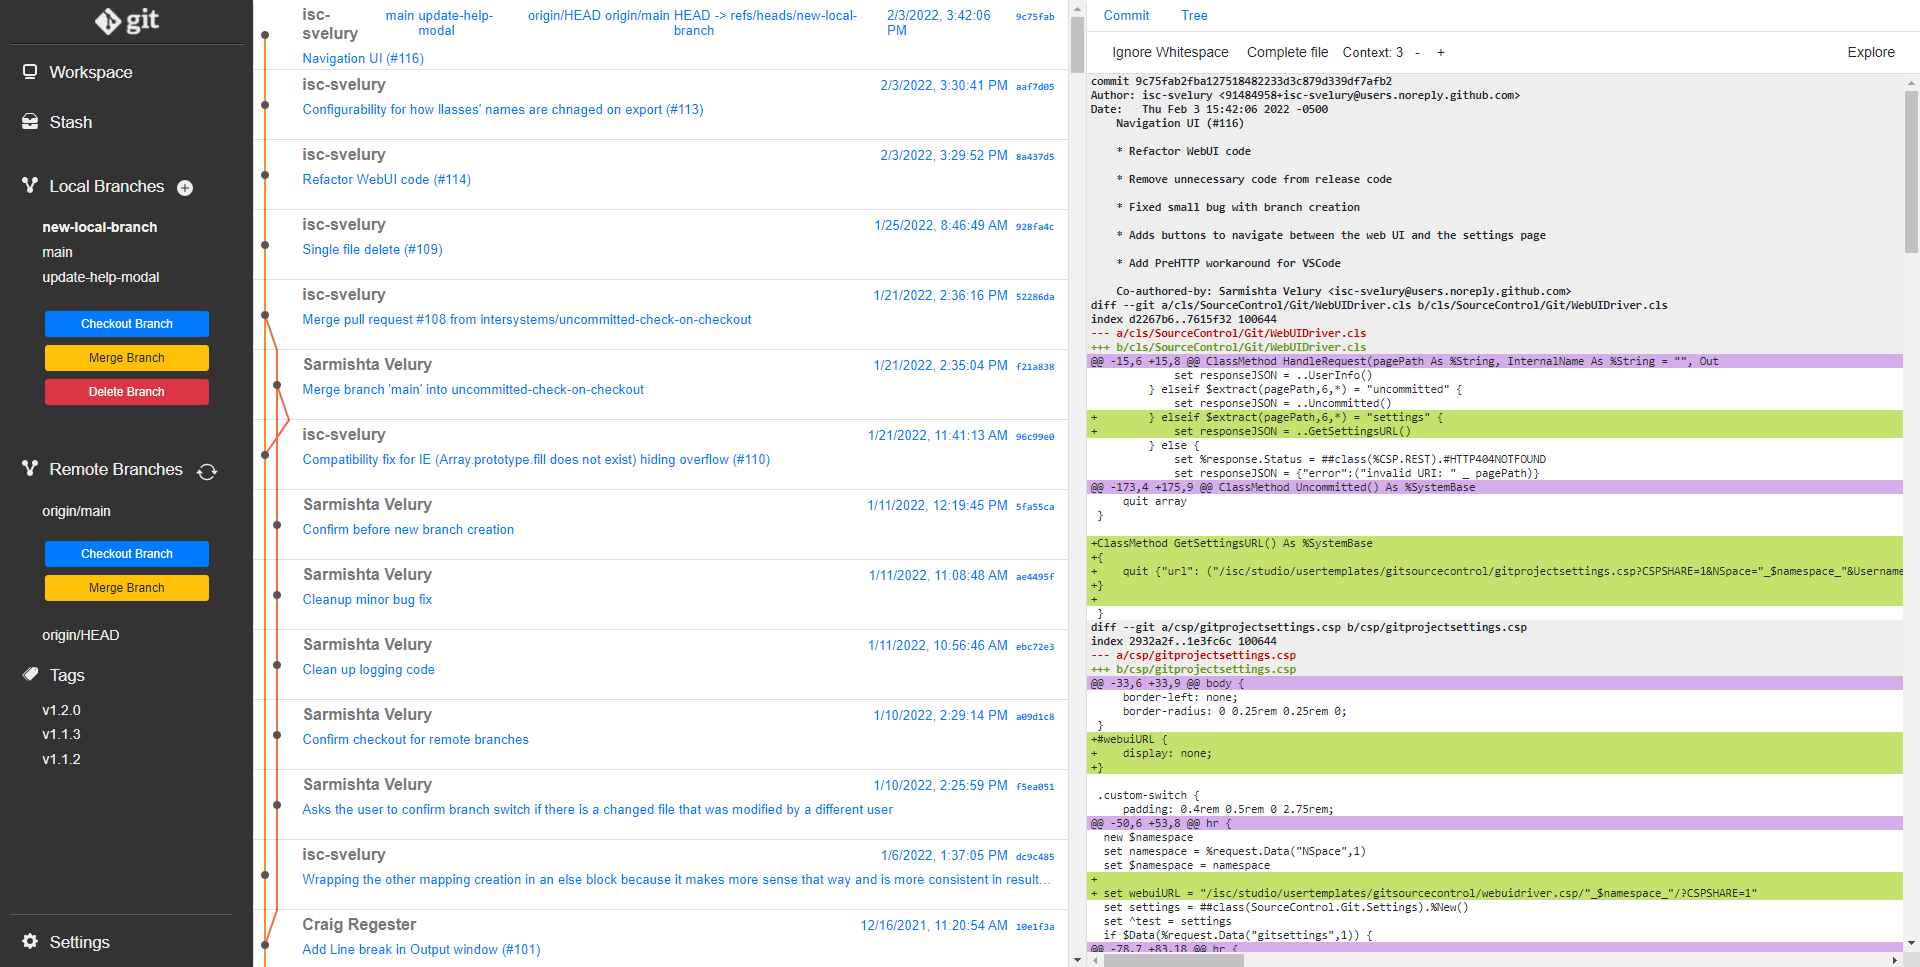
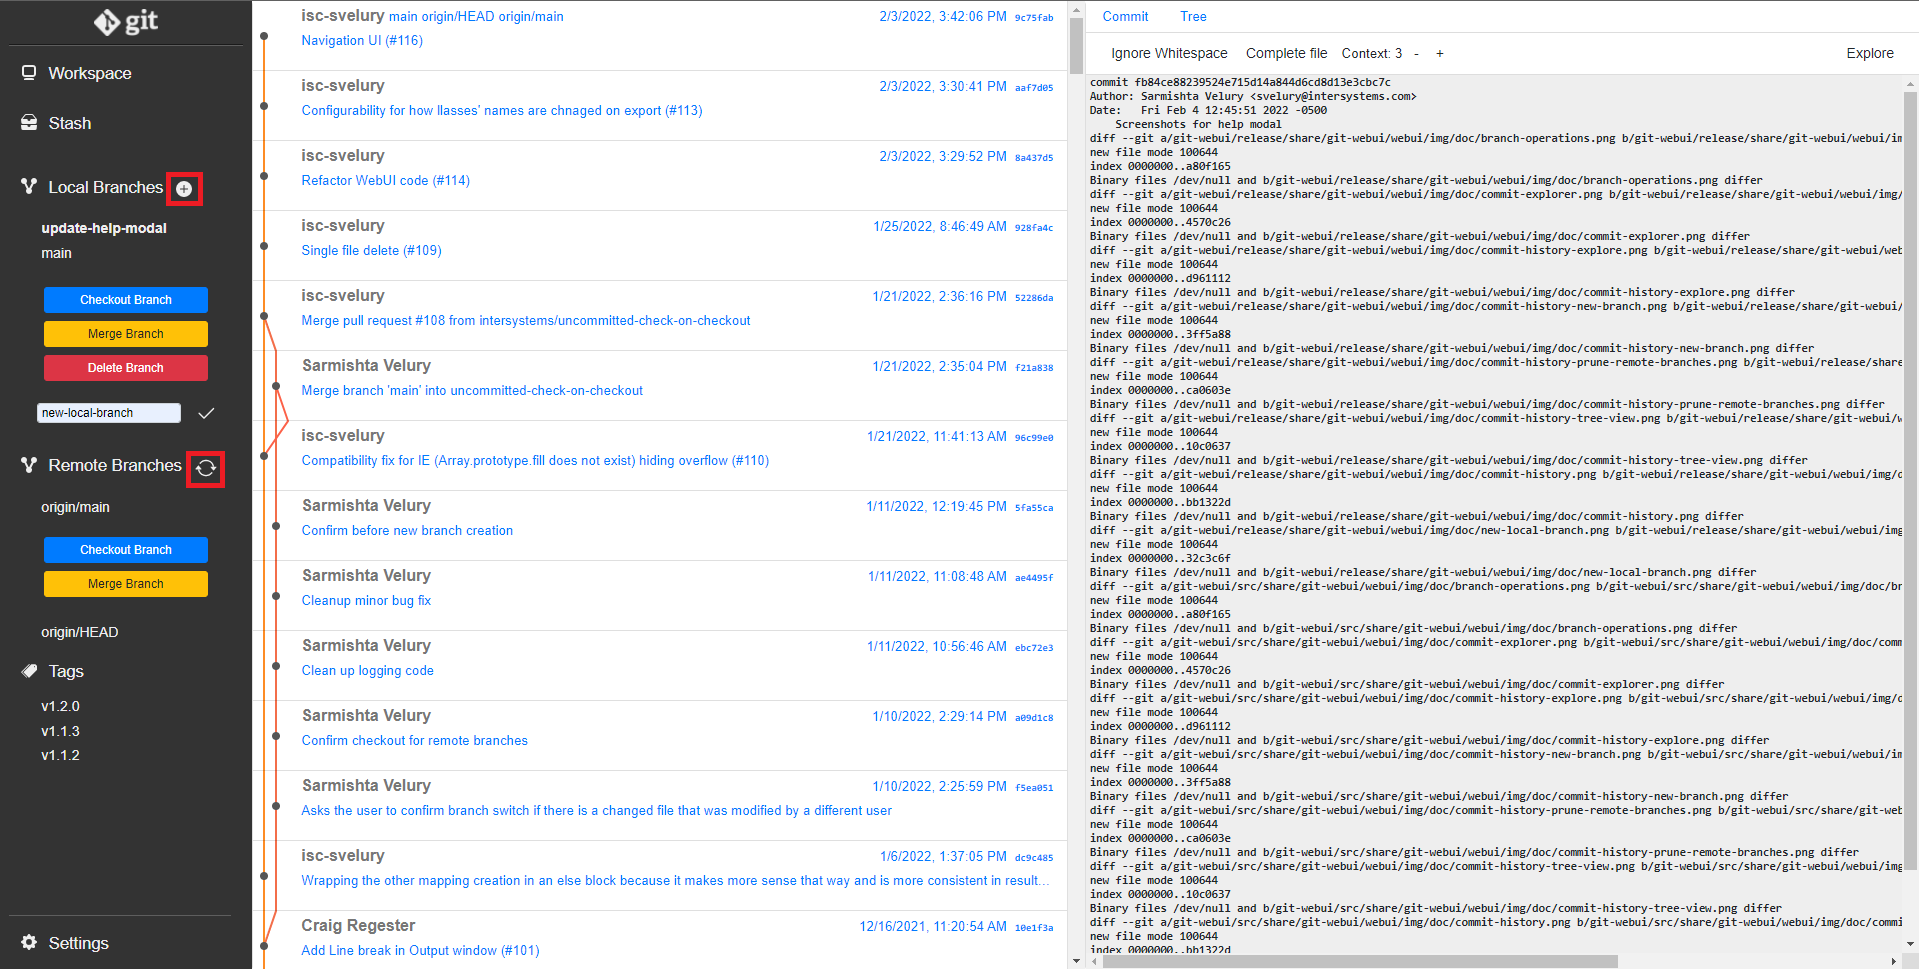
Updated help modal text and more screenshots

diff --git a/git-webui/release/share/git-webui/webui/index.html b/git-webui/release/share/git-webui/webui/index.html
@@ -52,18 +52,49 @@ limitations under the License.
                 <div class="modal-content">
                     <div class="modal-body">
                         <h4>History Viewing</h4>
-                        <p>The toolbar on the left shows your branches and tags. The log of the currently selected one is displayed.</p>
-                        <p>When selecting a revision the diff of this specific commit is displayed in the right panel.</p><br>
-                        <img alt="Image of log commit" src="img/doc/log-commit.png"><br>
-                        <p>On top of the right panel, you can choose 'Tree' to display the versioned content at the specific
-                            revision selected in the left panel. You can browse through directories and display file contents.</p><br>
-                        <img alt="Image of log tree" src="img/doc/log-tree.png">
-
-                        <h4>Commit</h4>
-                        <p>Commits can only be made from localhost.</p>
-                        <img alt="Image of the workspace" src="img/doc/workspace.png"><br>
+                        <hr>
+                        <h5>Overview</h5><br/>
+                        <img class="img-fluid" alt="Image of the Commit History View" src="img/doc/commit-history.png"><br>
+                        <p> The commit history view of the WebUI is comprised of three parts. 
+                            <ol>
+                                <li>
+                                    The sidebar contains navigation links to the Workspace, Stash and Settings. It also shows all the refs and tags in the repository.
+                                </li>
+                                <li>
+                                    The left panel displays the commit history of the current branch by default. Click on a different branch on the sidebar to view its commit history.
+                                </li>
+                                <li>
+                                    The right panel of the screen displays the diff of the latest commit of the selected or current branch. 
+                                    Select a different commit from the left panel to view its details.
+                                </li>
+                            </ol>
+                        </p>
+                        <h5>Tree View and Commit View</h5><br/>
+                        <!-- <img class="img-fluid" alt="Image of the Explore button in the Commit View of the Commit History" src="img/doc/commit-history-explore.png"><br> -->
+                        <img class="img-fluid" alt="Image of the Commit Explorer View of the Commit History" src="img/doc/commit-explorer.png"><br>
+                        <p> To see the commit in more detail, you can click the Explore button in the top-right corner to go to the Commit Explorer View.                                                  
+                        </p>
+                        <br/>
+                        <img class="img-fluid" alt="Image of the Tree View of the Commit History" src="img/doc/commit-history-tree-view.png"><br>
+                        <p>
+                            On top of the right panel in the Commit History View, you can choose 'Tree' to display the contents of the repository folder at the specific
+                            revision selected in the left panel. You can browse through directories and display file contents.
+                        </p>
+                        <h4>Workspace</h4>
+                        <img class="img-fluid" alt="Image of the workspace" src="img/doc/workspace.png"><br>
                         <ul>
                             <li><strong>Working copy</strong> lists the modified files (compared to the staging area) in your working directory</li>
+                            <ul>
+                                <li>
+                                    <strong>Stage</strong>: Stages the selected changes for a commit.
+                                </li>
+                                <li>
+                                    <strong>Stash</strong>: Stashes the selected changes.
+                                </li>
+                                <li>
+                                    <strong>Cancel</strong>: Discards the selected changes.
+                                </li>
+                            </ul>
                             <li><strong>Message</strong> lets you enter a commit message</li>
                             <li><strong>Staging area</strong> lists the modified files (compared to HEAD) in your staging area. These are the changes that will be committed</li>
                         </ul>
@@ -74,6 +105,33 @@ limitations under the License.
                         <ul>
                             <li>If the displayed diff is from the working copy, you may stage or cancel the selected lines.</li>
                             <li>If the displayed diff is from the staging area, you may unstage the selected lines.</li>
+                        </ul>
+                        <h4>Stash</h4>
+                        <img class="img-fluid" alt="Image of the Stash" src="img/doc/stash.png"><br>
+                        This tab shows all stashed changes and lets the user explore the changes in the Diff View in the right panel.
+                        <ul>
+                            <li><strong>Apply</strong> applies the selected stashed changes to the current branch. Changes will not be removed from the stash after applying them.</li>
+                            <li><strong>Pop</strong> applies the selected changes and removes the commit from the stash.</li>
+                            <li><strong>Drop</strong> removes the selected stashed changes without applying them.</li>
+                        </ul> 
+                        <h4>Branch Operations</h4>
+                        <img class="img-fluid" alt="Image of the Stash" src="img/doc/branch-operations.png"><br>
+                        <ul>
+                            <li>
+                                <strong>New Local Branch</strong>: Click the plus icon and enter the name of your branch in the text-box to create a new local branch from the current branch.
+                            </li>
+                            <li>
+                                <strong>Checkout Branch</strong>: Switch to an exisiting local or remote branch. Note that this will carry over any uncommitted changes to the new branch.
+                            </li>
+                            <li>
+                                <strong>Merge Branch</strong>: Incorporate changes from the selected local or remote branch into the current branch from the time their histories diverged.
+                            </li>
+                            <li>
+                                <strong>Delete Local Branch</strong>: Delete a local branch with the option to force delete it even if it is not fully merged.
+                            </li>
+                            <li>
+                                <strong>Prune Remote Branches</strong>: Click the refresh icon to prune stale refs to deleted remote branches.
+                            </li>
                         </ul>
                         <h4>License</h4>
                         This software is licensed under the <a href="http://www.apache.org/licenses/LICENSE-2.0.html" target="_blank">Apache 2.0</a> license

diff --git a/git-webui/src/share/git-webui/webui/index.html b/git-webui/src/share/git-webui/webui/index.html
@@ -52,18 +52,49 @@ limitations under the License.
                 <div class="modal-content">
                     <div class="modal-body">
                         <h4>History Viewing</h4>
-                        <p>The toolbar on the left shows your branches and tags. The log of the currently selected one is displayed.</p>
-                        <p>When selecting a revision the diff of this specific commit is displayed in the right panel.</p><br>
-                        <img alt="Image of log commit" src="img/doc/log-commit.png"><br>
-                        <p>On top of the right panel, you can choose 'Tree' to display the versioned content at the specific
-                            revision selected in the left panel. You can browse through directories and display file contents.</p><br>
-                        <img alt="Image of log tree" src="img/doc/log-tree.png">
-
-                        <h4>Commit</h4>
-                        <p>Commits can only be made from localhost.</p>
-                        <img alt="Image of the workspace" src="img/doc/workspace.png"><br>
+                        <hr>
+                        <h5>Overview</h5><br/>
+                        <img class="img-fluid" alt="Image of the Commit History View" src="img/doc/commit-history.png"><br>
+                        <p> The commit history view of the WebUI is comprised of three parts. 
+                            <ol>
+                                <li>
+                                    The sidebar contains navigation links to the Workspace, Stash and Settings. It also shows all the refs and tags in the repository.
+                                </li>
+                                <li>
+                                    The left panel displays the commit history of the current branch by default. Click on a different branch on the sidebar to view its commit history.
+                                </li>
+                                <li>
+                                    The right panel of the screen displays the diff of the latest commit of the selected or current branch. 
+                                    Select a different commit from the left panel to view its details.
+                                </li>
+                            </ol>
+                        </p>
+                        <h5>Tree View and Commit View</h5><br/>
+                        <!-- <img class="img-fluid" alt="Image of the Explore button in the Commit View of the Commit History" src="img/doc/commit-history-explore.png"><br> -->
+                        <img class="img-fluid" alt="Image of the Commit Explorer View of the Commit History" src="img/doc/commit-explorer.png"><br>
+                        <p> To see the commit in more detail, you can click the Explore button in the top-right corner to go to the Commit Explorer View.                                                  
+                        </p>
+                        <br/>
+                        <img class="img-fluid" alt="Image of the Tree View of the Commit History" src="img/doc/commit-history-tree-view.png"><br>
+                        <p>
+                            On top of the right panel in the Commit History View, you can choose 'Tree' to display the contents of the repository folder at the specific
+                            revision selected in the left panel. You can browse through directories and display file contents.
+                        </p>
+                        <h4>Workspace</h4>
+                        <img class="img-fluid" alt="Image of the workspace" src="img/doc/workspace.png"><br>
                         <ul>
                             <li><strong>Working copy</strong> lists the modified files (compared to the staging area) in your working directory</li>
+                            <ul>
+                                <li>
+                                    <strong>Stage</strong>: Stages the selected changes for a commit.
+                                </li>
+                                <li>
+                                    <strong>Stash</strong>: Stashes the selected changes.
+                                </li>
+                                <li>
+                                    <strong>Cancel</strong>: Discards the selected changes.
+                                </li>
+                            </ul>
                             <li><strong>Message</strong> lets you enter a commit message</li>
                             <li><strong>Staging area</strong> lists the modified files (compared to HEAD) in your staging area. These are the changes that will be committed</li>
                         </ul>
@@ -74,6 +105,33 @@ limitations under the License.
                         <ul>
                             <li>If the displayed diff is from the working copy, you may stage or cancel the selected lines.</li>
                             <li>If the displayed diff is from the staging area, you may unstage the selected lines.</li>
+                        </ul>
+                        <h4>Stash</h4>
+                        <img class="img-fluid" alt="Image of the Stash" src="img/doc/stash.png"><br>
+                        This tab shows all stashed changes and lets the user explore the changes in the Diff View in the right panel.
+                        <ul>
+                            <li><strong>Apply</strong> applies the selected stashed changes to the current branch. Changes will not be removed from the stash after applying them.</li>
+                            <li><strong>Pop</strong> applies the selected changes and removes the commit from the stash.</li>
+                            <li><strong>Drop</strong> removes the selected stashed changes without applying them.</li>
+                        </ul> 
+                        <h4>Branch Operations</h4>
+                        <img class="img-fluid" alt="Image of the Stash" src="img/doc/branch-operations.png"><br>
+                        <ul>
+                            <li>
+                                <strong>New Local Branch</strong>: Click the plus icon and enter the name of your branch in the text-box to create a new local branch from the current branch.
+                            </li>
+                            <li>
+                                <strong>Checkout Branch</strong>: Switch to an exisiting local or remote branch. Note that this will carry over any uncommitted changes to the new branch.
+                            </li>
+                            <li>
+                                <strong>Merge Branch</strong>: Incorporate changes from the selected local or remote branch into the current branch from the time their histories diverged.
+                            </li>
+                            <li>
+                                <strong>Delete Local Branch</strong>: Delete a local branch with the option to force delete it even if it is not fully merged.
+                            </li>
+                            <li>
+                                <strong>Prune Remote Branches</strong>: Click the refresh icon to prune stale refs to deleted remote branches.
+                            </li>
                         </ul>
                         <h4>License</h4>
                         This software is licensed under the <a href="http://www.apache.org/licenses/LICENSE-2.0.html" target="_blank">Apache 2.0</a> license

diff --git a/git-webui/release/share/git-webui/webui/js/git-webui.js b/git-webui/release/share/git-webui/webui/js/git-webui.js
@@ -640,7 +640,7 @@ webui.SideBarView = function(mainView, noEventHandlers) {
             window.location.replace(url.url);
         });
     }
-  
+
     self.fetchSection = function(section, title, id, gitCommand) {
         webui.git(gitCommand, function(data) {
             var refs = webui.splitLines(data);

diff --git a/git-webui/release/share/git-webui/webui/css/git-webui.css b/git-webui/release/share/git-webui/webui/css/git-webui.css
@@ -31,6 +31,9 @@
   animation-timing-function: linear;
   animation-play-state: running;
 }
+#help-modal .img-fluid {
+  max-width: 90%;
+}
 html,
 body {
   height: 100%;

diff --git a/git-webui/src/share/git-webui/webui/css/git-webui.less b/git-webui/src/share/git-webui/webui/css/git-webui.less
@@ -73,6 +73,12 @@
     
 }
 
+#help-modal{
+    .img-fluid {
+        max-width: 90%;
+    }
+}
+
 .display-flex() {
     display: flex;
     display: -webkit-flex;
